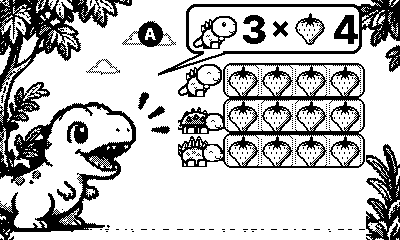
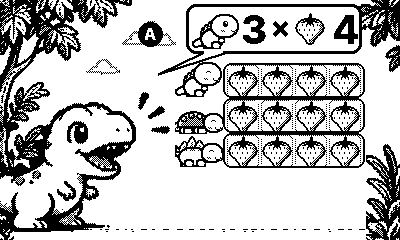
Cleaner, cuter party dinos; v1.5 design review
- Friends redrawn: one bold silhouette and a single dithered feature each,
  half-height heads, big shiny eyes, blush, chubby legs; wide happy smile
- Brachiosaurus head kept inside its row; sprites now 48x40 with updated
  mouth targets
- DESIGN_REVIEW.md: v1.5 findings and open items; previews re-rendered

Claude-Session: https://claude.ai/code/session_01PSZdM1SDyvnNPt6Ptk92Sc

diff --git a/tools/make_friends.py b/tools/make_friends.py
@@ -1,10 +1,12 @@
 #!/usr/bin/env python3
 """Draw the T-Rex's friends as small 1-bit cartoon sprites.
 
-Each dino is built from simple shapes (ellipses, polygons) drawn at 8x,
+Each dino is one bold silhouette built from simple shapes drawn at 8x,
 outlined, then reduced to native 1-bit pixels so the style matches the
-thick-outlined, white-filled T-Rex.  Three poses each: idle, chomp
-(mouth open) and happy (eyes closed, big smile).
+thick-outlined, white-filled T-Rex.  Style rules (after the friends
+reference sheet): big head, big shiny eye, a blush, chubby legs, and just
+one dithered feature per dino.  Faces are hand-placed pixel stamps.
+Three poses each: idle, chomp (mouth open) and happy (eyes closed, grin).
 
 Usage:  python3 tools/make_friends.py      (needs Pillow + numpy)
 """
@@ -15,7 +17,7 @@ from PIL import Image, ImageDraw, ImageFilter
 ROOT = os.path.dirname(os.path.dirname(os.path.abspath(__file__)))
 OUT = os.path.join(ROOT, "source", "images", "friends")
 SS = 8                      # supersampling factor
-W, H = 46, 40               # sprite size in native pixels (feet on the bottom row)
+W, H = 48, 40               # sprite size in native pixels (feet on the bottom row)
 STROKE = 1.5                # outline width in native pixels
 
 
@@ -91,18 +93,19 @@ def rrect(x0, y0, x1, y1, r):
     return lambda d: d.rounded_rectangle([S(x0), S(y0), S(x1), S(y1)], S(r), fill=255)
 
 
-# Hand-placed face pixels ("#" black, "." white) - drawn shapes turn to
-# mush at this size.
-EYE = [".##.", "##.#", "####", "####", ".##."]
-EYE_HAPPY = [".##.", "#..#", "...."]
+# Hand-placed face pixels: "#" black, "." white, " " leave as is.
+# Drawn shapes turn to mush at this size, so faces are stamped.
+EYE = [".###.", "##..#", "###.#", "#####", "#####", ".###."]   # big, shiny
+EYE_HAPPY = [".###.", "#...#"]                                   # closed arc
 SMILE = ["#...#", ".###."]
-SMILE_HAPPY = ["#....#", "#....#", ".####."]
+SMILE_HAPPY = ["#....#", "#....#", ".####."]                     # wide smile
 CHOMP = [".###.", "#####", "#####", ".###."]
+BLUSH = ["# # ", " # #"]
 
 
-def face(c, ex, ey, mx, my, pose, mouth_w=None):
-    """Record where the eye (top-left ex, ey) and mouth go; stamped later."""
-    c.face = (round(ex), round(ey), round(mx), round(my), pose)
+def face(c, eye, mouth, blush):
+    """Where the eye centre, mouth centre and cheek go (stamped last)."""
+    c.face = (eye, mouth, blush)
 
 
 def stamp(out, rows, x, y):
@@ -115,124 +118,104 @@ def stamp(out, rows, x, y):
 
 
 def apply_face(c, out):
-    ex, ey, mx, my, pose = c.face
+    (ex, ey), (mx, my), (bx, by) = c.face
+    pose = c.pose
+    stamp(out, BLUSH, bx - 2, by)
     if pose == "happy":
-        stamp(out, EYE_HAPPY, ex - 2, ey)
+        stamp(out, EYE_HAPPY, ex - 2, ey - 1)
         stamp(out, SMILE_HAPPY, mx - 3, my - 1)
     else:
-        stamp(out, EYE, ex - 2, ey - 2)
+        stamp(out, EYE, ex - 2, ey - 3)
         if pose == "chomp":
-            stamp(out, CHOMP, mx - 2, my - 1)
+            stamp(out, CHOMP, mx - 2, my - 2)
         else:
-            stamp(out, SMILE, mx - 2, my)
+            stamp(out, SMILE, mx - 2, my - 1)
     return out
 
 
-def legs(c, xs, top, foot=39):
+def legs(c, xs, top):
+    """Short, chubby legs with rounded feet."""
     for x in xs:
-        c.part(rrect(x - 3.2, top, x + 3.2, foot, 1.8))
+        c.part(rrect(x - 3.6, top, x + 3.6, H - 1, 2.6))
 
 
-def spots(c, pts):
-    for (x, y, rx, ry) in pts:
-        c.shade(ell(x, y, rx, ry))
+# Each dino: one bold silhouette, one dithered feature, big head and eye.
+# Coordinates are native pixels in a 48x40 box, feet on the bottom row,
+# facing right.  MOUTHS (used by game.lua) is filled in from face().
+
+def mini_trex(c):
+    c.part(poly((13, 27), (1.5, 34), (3, 37), (16, 35)))         # tail
+    for (x, y) in [(11.5, 22), (14.5, 18.5), (18.5, 16)]:         # back spikes
+        c.part(poly((x - 2.6, y + 3.5), (x - 0.5, y - 2.5), (x + 2.8, y + 2.5)), 1.2)
+        c.shade(poly((x - 1.5, y + 3), (x - 0.5, y - 1), (x + 1.8, y + 2)))
+    legs(c, [16], 33)
+    c.part(ell(20, 30, 10, 8.5))                                  # body
+    legs(c, [24], 34)
+    c.part(ell(32.5, 17, 12.5, 10.5))                             # big head
+    c.part(ell(29.5, 31.5, 2.6, 1.8), 1.0)                        # tiny arm
+    face(c, (33, 15), (41, 22), (31, 21))
 
 
-def nostril(c, x, y):
-    c.mark(ell(x, y, 0.6, 0.6))
+def triceratops(c):
+    c.part(poly((9, 28), (1, 33), (2.5, 35.5), (11, 35)))        # tail
+    legs(c, [10, 22], 32)
+    c.part(ell(18, 30, 12, 8))                                    # body
+    legs(c, [14, 26], 34)
+    c.part(ell(28, 17.5, 10, 11.5))                              # frill
+    c.shade(ell(27, 17, 7.5, 9))
+    c.part(poly((31.5, 13), (34, 3), (36.5, 4), (36, 14)), 1.2)   # horns
+    c.part(poly((37.5, 14), (41.5, 4.5), (43.5, 6), (40.5, 15.5)), 1.2)
+    c.part(ell(36.5, 23.5, 9.5, 9), ell(43, 26.5, 4.5, 4))        # head + beak
+    c.part(poly((43, 22.5), (46, 18.5), (46.5, 23.5)), 1.0)      # nose horn
+    face(c, (36, 21), (42, 29), (33, 27))
 
 
-def leaf_plate(c, x, base, top, w):
-    """Leaf-shaped back plate: outlined, dithered, with a centre vein."""
-    c.part(poly((x - w, base), (x - w * 0.6, (base + top) / 2), (x, top),
-                (x + w * 0.6, (base + top) / 2), (x + w, base)), 1.1)
-    c.shade(poly((x - w * 0.55, base - 0.5), (x, top + 2), (x + w * 0.55, base - 0.5)))
-    c.mark(lambda d: d.line([(S(x), S(base)), (S(x), S(top + 2))], fill=255, width=round(S(0.8))))
+def stegosaurus(c):
+    c.part(poly((8, 27), (0.5, 23.5), (1.5, 27.5), (9, 34)))     # tail
+    c.part(poly((2, 24.5), (1, 19.5), (4.5, 24)), 1.0)           # tail spikes
+    c.part(poly((5, 26), (5.5, 21), (7.5, 26.5)), 1.0)
+    for (x, top, w) in [(9.5, 15, 4.6), (17, 10.5, 5.6), (24.5, 14, 4.8)]:  # plates
+        mid = (top + 25) / 2
+        c.part(poly((x - w, 25), (x - w * 0.8, mid), (x, top), (x + w * 0.8, mid), (x + w, 25)), 1.2)
+        c.shade(poly((x - w * 0.5, 24), (x, top + 2.5), (x + w * 0.5, 24)))
+    legs(c, [10, 22], 32)
+    c.part(ell(18, 30, 13, 8.5))                                  # body
+    legs(c, [14, 26], 34)
+    c.part(ell(37, 26, 9.5, 8.5), ell(43, 28.5, 4.5, 4))          # head + snout
+    face(c, (36, 24), (43, 31), (34, 30))
 
 
-def triceratops(pose):
-    c = Canvas()
-    c.part(poly((10, 27), (1, 31), (3, 33.5), (12, 33)))         # tail
-    legs(c, [9, 21], 32)
-    c.part(ell(16, 30, 11, 7.5))                                 # body
-    spots(c, [(11, 29, 2.5, 1.8), (17, 27, 2, 1.5), (21, 31, 2, 1.5)])
-    legs(c, [13, 24], 34)
-    c.part(ell(27, 19, 8.5, 10.5))                              # frill
-    c.shade(ell(26, 15, 5, 5))
-    c.part(poly((32, 15), (35.5, 5.5), (35, 16)), 1.2)          # brow horn (back)
-    c.part(ell(35, 24, 8.5, 8.2), ell(41.5, 27.5, 4, 3.6))      # head + beak
-    c.part(poly((36.5, 16.5), (42, 7), (39.5, 18)), 1.2)        # brow horn (front)
-    c.part(poly((42.5, 24.5), (45.2, 20.5), (44.8, 25.5)), 1.0) # nose horn
-    face(c, 33, 23, 41, 28, pose)
-    return c.render()
-
-
-def stegosaurus(pose):
-    c = Canvas()
-    c.part(poly((9, 27), (0.5, 22), (1.5, 26), (9, 33)))        # tail
-    c.part(poly((1.5, 23), (0.5, 18), (3.5, 22.5)), 1.0)        # tail spikes
-    c.part(poly((4, 24.5), (4.5, 19.5), (6.5, 25)), 1.0)
-    for (x, top, w) in [(7.5, 15, 4), (14, 10.5, 5), (21, 10, 5.2), (27.5, 14.5, 4.2)]:
-        leaf_plate(c, x, 23.5, top, w)
-    legs(c, [9, 21], 32)
-    c.part(ell(16.5, 29, 12, 8))                                 # body
-    spots(c, [(10, 27, 2.2, 1.6), (15.5, 25.5, 2, 1.4), (20.5, 28, 2.2, 1.6),
-              (13, 31, 1.8, 1.3)])
-    legs(c, [13, 24], 34)
-    c.part(ell(34, 26, 8.5, 7.8), ell(40, 28.5, 5, 4.2))        # head + snout
-    nostril(c, 43, 26.5)
-    face(c, 33, 24.5, 40, 30.5, pose)
-    return c.render()
-
-
-def brachiosaurus(pose):
-    c = Canvas()
-    c.part(poly((8, 29), (0.5, 33), (2, 35), (10, 34)))         # tail
+def brachiosaurus(c):
+    c.part(poly((7, 30), (0.5, 34.5), (2, 37), (9, 35)))         # tail
     legs(c, [8, 20], 32)
-    c.part(ell(15, 30.5, 10.5, 7))                              # body
-    spots(c, [(10, 29, 2.2, 1.5), (15, 27.5, 2, 1.4), (19.5, 30, 2, 1.5)])
-    legs(c, [12, 23], 34)
-    c.part(poly((20, 28), (27, 10), (33, 11), (26, 31)),         # neck + head + snout
-           ell(31.5, 7.5, 7.5, 6.8), ell(38, 9.5, 4.2, 3.6), ell(30, 2.2, 2.8, 2))
-    c.shade(ell(27, 19, 1.6, 1.4))
-    nostril(c, 40.5, 8)
-    face(c, 31, 6, 37.5, 11.5, pose)
-    return c.render()
+    c.part(ell(14.5, 31, 11, 7.5))                                # body
+    c.shade(ell(10.5, 29.5, 3, 2.2))                             # two big spots
+    c.shade(ell(17.5, 28.5, 2.6, 2))
+    legs(c, [12, 24], 34)
+    c.part(poly((19, 29), (26, 16), (32.5, 17), (27, 32)),        # neck + head
+           ell(33, 14, 9, 8), ell(40, 16.5, 4.5, 3.8))              # (head kept
+    face(c, (33, 13), (40, 19), (30, 18))                          # inside its row)
 
 
-def ankylosaurus(pose):
+def ankylosaurus(c):
+    c.part(poly((7, 31), (3, 31), (3, 34.5), (8, 35)))           # tail
+    c.part(ell(3.4, 32.8, 3.4, 3.6))                              # tail club
+    c.shade(ell(3.4, 32.8, 2, 2.2))
+    legs(c, [9, 23], 34)
+    c.part(lambda d: d.chord([S(3.5), S(19), S(33), S(46)], 180, 360, fill=255))  # shell
+    c.shade(lambda d: d.chord([S(6), S(21.5), S(30.5), S(44)], 185, 355, fill=255))
+    for (x, y) in [(9, 25), (16.5, 21.5), (24.5, 22.5), (30, 27)]:  # studs
+        c.part(ell(x, y, 2, 2), 1.0)
+    legs(c, [13, 27], 35)
+    c.part(ell(38.5, 29, 9, 8.2), ell(44, 31.5, 3.8, 3.4))        # head + snout
+    face(c, (38, 27), (43, 34), (35, 33))
+
+
+def make(builder, pose):
     c = Canvas()
-    c.part(poly((7, 29), (3, 29.5), (3, 32.5), (8, 33)))        # tail
-    c.part(ell(3.2, 31, 3.2, 3.4))                              # tail club
-    c.shade(ell(3.2, 31, 1.8, 2))
-    legs(c, [9, 23], 33)
-    for (x, top) in [(9, 18), (15, 15), (21, 14.5), (27, 17)]:
-        c.part(poly((x - 2.6, 22.5), (x, top), (x + 2.6, 22.5)), 1.0)   # shell spikes
-    c.part(lambda d: d.chord([S(4), S(19), S(32), S(42)], 180, 360, fill=255))  # shell
-    c.shade(lambda d: d.chord([S(6.5), S(22), S(29.5), S(40)], 190, 350, fill=255))
-    for (x, y) in [(11, 25), (18, 23), (25, 25)]:
-        c.part(poly((x - 1.6, y + 1.6), (x, y - 1.6), (x + 1.6, y + 1.6)), 0.9)  # studs
-    legs(c, [13, 26], 34)
-    c.part(ell(36, 28, 8.2, 7.6), ell(41.5, 30.5, 4, 3.4))      # head + snout
-    nostril(c, 44, 29)
-    face(c, 35, 26.5, 40.5, 32.5, pose)
-    return c.render()
-
-
-def mini_trex(pose):
-    c = Canvas()
-    c.part(poly((12, 26), (1, 35), (4, 37), (15, 33)))          # tail
-    for (x, y) in [(11, 19), (14.5, 15.5), (18.5, 13.5)]:
-        c.part(poly((x - 2.2, y + 3), (x - 1.5, y - 2), (x + 2.2, y + 2)), 1.0)  # spikes
-    legs(c, [15], 32)
-    c.part(ell(19, 29, 9, 9))                                    # body
-    spots(c, [(15, 27, 1.8, 1.3), (17.5, 31, 1.6, 1.2)])
-    legs(c, [22], 34)
-    c.part(ell(31, 18, 11.5, 9.5))                              # big head
-    c.part(ell(28.5, 29.5, 2.4, 1.6), 1.0)                      # little arm
-    nostril(c, 41, 15.5)
-    face(c, 31, 15, 38, 21.5, pose)
-    return c.render()
+    c.pose = pose
+    builder(c)
+    return c, c.render()
 
 
 FRIENDS = {
@@ -253,10 +236,14 @@ def save(a, path):
 
 def main():
     os.makedirs(OUT, exist_ok=True)
+    mouths = []
     for name, fn in FRIENDS.items():
         for pose in ("idle", "chomp", "happy"):
-            save(fn(pose), os.path.join(OUT, "%s_%s.png" % (name, pose)))
+            c, out = make(fn, pose)
+            save(out, os.path.join(OUT, "%s_%s.png" % (name, pose)))
+        mouths.append("%s = { %d, %d }" % ((name,) + c.face[1]))
     print("wrote", len(FRIENDS) * 3, "friend sprites")
+    print("mouths for game.lua Layout.friendMouth:", ", ".join(mouths))
 
 
 if __name__ == "__main__":

diff --git a/tools/check_assets.py b/tools/check_assets.py
@@ -55,7 +55,7 @@ check_png("images/numbers/times")
 friends = re.findall(r'"(\w+)"', re.search(r"Game.FRIENDS = \{([^}]*)\}", game).group(1))
 for name in ["trex"] + friends:
     for pose in ("idle", "chomp", "happy"):
-        check_png("images/friends/%s_%s" % (name, pose), (46, 40))
+        check_png("images/friends/%s_%s" % (name, pose), (48, 40))
 effects = re.search(r"EFFECTS = \{(.*?)\}", main, re.S).group(1)
 for name in re.findall(r'"([^"]+)"', effects):
     check_wav("sounds/" + name)

diff --git a/DESIGN_REVIEW.md b/DESIGN_REVIEW.md
@@ -1,5 +1,48 @@
 # Design review
 
+## v1.5: Multiplying game and party dinos
+
+Reviewed every screen in `preview/`, both games. The screens are rendered
+from main.lua's real draw calls by a mock renderer, not the Playdate
+Simulator.
+
+![Screens](preview/contact_sheet.png)
+
+### Fixed in this pass
+
+| # | Finding | Fix |
+|---|---|---|
+| 1 | Party dinos looked noisy: scattered dither specks for spots, a smudgy "cheek", thin feather-like stegosaurus plates. At 1x it read as dirt, not detail. | Redrawn with one bold silhouette per dino and **exactly one dithered feature**: the frill, plates, shell, back spikes or two big spots. |
+| 2 | Heads were about a third of the body. Not cute enough next to the chibi T-Rex. | Heads are now about half the height. Bigger 5×6 shiny eyes with a 2-pixel highlight, a small blush, chubby rounded legs. |
+| 3 | The happy face's open grin read as stripes. | Simple wide smile with closed arc eyes. |
+| 4 | With five dinos, the brachiosaurus's head poked into the row above. | Head lowered so every dino stays within its own row. Sprites are now 48×40, and mouth targets were updated for the berry flights. |
+| 5 | The bubble tail ran into the first row's mini T-Rex. | Tail now points at the big T-Rex. Rows moved down 6 px. |
+| 6 | Grid cells shared edges, so the dotted outlines looked broken. | Each cell is inset by 1 px. |
+| 7 | The empty-tray hint still said "My bowl is empty". | "No strawberries yet!" |
+
+### Still open
+
+- **Big T-Rex vs. grid in Multiplying:** the host takes the left 40% of
+  the screen, so the grid and friends are packed on the right. With 5 rows
+  the grid runs to the bottom edge. It works in the preview, but check it
+  on hardware.
+- **Two T-Rexes:** the host also appears as a mini T-Rex owning row 1
+  ("we each want…"). That's clear to adults. Watch whether children read
+  the mini one as "me".
+- **Triceratops horns** poke 1–2 px into the row above in a full 5-row
+  grid. Harmless, but noticeable at 4x.
+- **The friends were drawn, not extracted:** they follow the reference
+  sheet's style, but adding the sheet as `tools/reference/friends.png`
+  would allow extracting the real sprites. The sheet has no triceratops,
+  so that one stays drawn either way.
+- **Not yet run in the Simulator or on hardware.** This includes the
+  speed of the row-by-row eating and the length of the spoken facts
+  (about 2 s each).
+
+---
+
+## v1.4 review
+
 Reviewed every screen against the art-direction mockup
 (`tools/reference/mockup.png`) and the spec's preschool UX goals. The
 screens come from `preview/`, which is rendered from main.lua's real draw
